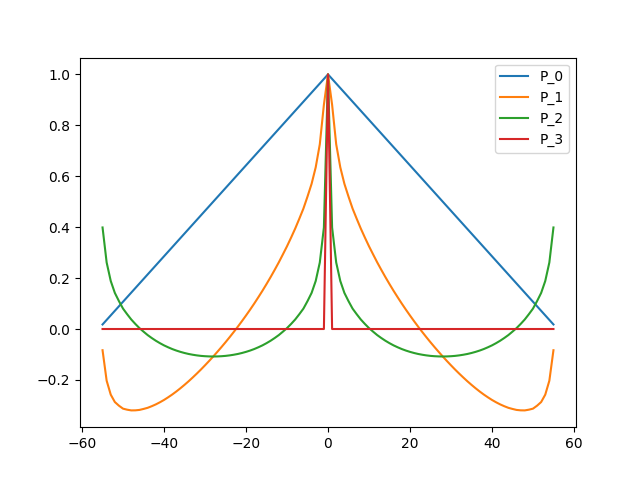
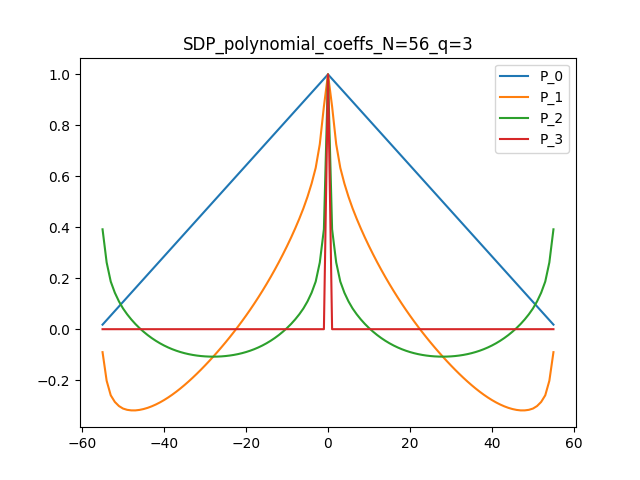
Added symmetrized solver which incorporates matrix redundancy, as well as more plots of polynomial reversals

diff --git a/sdp-solver-trans-invar-OS.py b/sdp-solver-trans-invar-OS.py
@@ -7,9 +7,8 @@ from matplotlib import pyplot as plt
 N = 6                     # Instance size
 q = 2                     # Number of queries
 epsilon = 1e-8            # Solver precision (default is not high enough)
-plot_polys = False        # Plots analogous to Figure 1 in [arxiv:0608161]
-plot_poly_coeffs = False  # Plots analogous to Figure 2 in [arxiv:0608161]
-# Note that plots will always be saved, flags determined if they are shown
+plot_polys = False        # Plots analogous to Figures 1 and 2 in [arxiv:0608161]
+save_plots = True         # Note that plots are saved only if they are not shown
 
 ############################################################
 ################ Subroutine Definitions ####################
@@ -25,6 +24,17 @@ def tr_off_diag(M, i):
         return np.sum([M[j-i, j] for j in range(N+i)])
     else:
         return np.trace(M)
+    
+    
+# Flip the polynomial coefficients of a laurent polynomial
+def flip_poly(P):
+    d = len(P)
+    mid_d = (d-1) // 2
+    new_coeffs = [0] * d
+    for i in range(mid_d):
+        new_coeffs[i] = P[mid_d - i - 1]
+        new_coeffs[mid_d + 1 + i] = P[d - i - 1]
+    return np.array(new_coeffs)
 
 # Returns a list of values of symmetric laurent polynomial, assumes length of P is odd
 def poly_val(P, xs):
@@ -34,6 +44,15 @@ def poly_val(P, xs):
     for x in xs:
         vals += [sum([P[i] * x**(i-mid_d) for i in range(d)])]
     return np.array(vals)
+
+# Determines whether two polynomials are equal on the unit circle, up to precision eps
+def poly_eq(P1, P2, eps=1e-6):
+    d = len(P1)
+    thetas = np.linspace(0, 2 * np.pi, 1000)
+    vals1 = poly_val(P1, np.exp(1j * thetas))
+    vals2 = poly_val(P2, np.exp(1j * thetas))
+    return np.all(np.abs(vals1 - vals2) < eps)
+
 
 ############################################################
 ###################### SDP Solving #########################
@@ -70,10 +89,30 @@ else:
 
 # Compute the solution polynomials
 P = [[] for _ in range(q + 1)]
+P_rev = [[] for _ in range(q + 1)]
+P_sum = [[] for _ in range(q + 1)]
+P_diff = [[] for _ in range(q + 1)]
 for i in range(1, q):
     Q[i] = Q[i].value
 for i in range(q + 1):
     P[i] = [tr_off_diag(Q[i], j) for j in range(-N+1, N)]
+    P_rev[i] = flip_poly(P[i])
+    P_sum[i] = P[i] + P_rev[i]
+    P_diff[i] = P[i] - P_rev[i]
+
+# Determine equality relations among the polynomials
+# Note that not every equality relation is checked...
+# One could check more things if desired
+for i in range(q + 1):
+    for j in range(i +1, q + 1):
+        if poly_eq(P_sum[i], P_sum[j]):
+            print("P_sum_" + str(i) + " and P_sum_" + str(j) + " are equal")
+        if poly_eq(P_diff[i], P_diff[j]):
+            print("P_diff_" + str(i) + " and P_diff_" + str(j) + " are equal")
+        if poly_eq(P_diff[i], P_sum[j]):
+            print("P_diff_" + str(i) + " and P_sum_" + str(j) + " are equal")
+        if poly_eq(P_sum[i], P_diff[j]):
+            print("P_sum_" + str(i) + " and P_diff_" + str(j) + " are equal")
 
 # Plot the solution polynomials
 thetas = np.linspace(0, 2 * np.pi, N * 6 + 100)
@@ -81,9 +120,11 @@ for i in range(q + 1):
     plt.plot(thetas, poly_val(P[i], np.exp(1j * thetas)), label='P_' + str(i))
 plt.legend()
 fig_name = "SDP_polynomial_values_N=" + str(N) + "_q=" + str(q) + ".png"
+plt.title("SDP_polynomial_values_N=" + str(N) + "_q=" + str(q))
 if plot_polys:
     plt.show()
-plt.savefig("Plots/" + fig_name)
+elif save_plots:
+    plt.savefig("Plots/" + fig_name)
 print("Saving polynomial values plot in Plots/" + fig_name)
 plt.clf()
 
@@ -93,7 +134,53 @@ for i in range(q+1):
     plt.plot(degs, P[i], label='P_' + str(i))
 plt.legend()
 fig_name = "SDP_polynomial_coeffs_N=" + str(N) + "_q=" + str(q) + ".png"
-if plot_poly_coeffs:
+plt.title("SDP_polynomial_coeffs_N=" + str(N) + "_q=" + str(q))
+if plot_polys:
     plt.show()
-plt.savefig("Plots/" + fig_name)
+elif save_plots:
+    plt.savefig("Plots/" + fig_name)
 print("Saving polynomial coefficients plot in Plots/" + fig_name)
+plt.clf()
+
+
+# Plot the solution polynomial reversals
+thetas = np.linspace(0, 2 * np.pi, N * 6 + 100)
+for i in range(q + 1):
+    plt.plot(thetas, poly_val(P_rev[i], np.exp(1j * thetas)), label='P_' + str(i))
+plt.legend()
+fig_name = "SDP_reversed_polynomial_values_N=" + str(N) + "_q=" + str(q) + ".png"
+plt.title("SDP_reversed_polynomial_values_N=" + str(N) + "_q=" + str(q))
+if plot_polys:
+    plt.show()
+elif save_plots:
+    plt.savefig("Plots/" + fig_name)
+print("Saving polynomial values plot in Plots/" + fig_name)
+plt.clf()
+
+# Plot the sum of solution polynomial and their reversals
+thetas = np.linspace(0, 2 * np.pi, N * 6 + 100)
+for i in range(q + 1):
+    plt.plot(thetas, poly_val(P[i] + P_rev[i], np.exp(1j * thetas)), label='P_' + str(i))
+plt.legend()
+fig_name = "SDP_sum_polynomial_values_N=" + str(N) + "_q=" + str(q) + ".png"
+plt.title("SDP_sum_polynomial_values_N=" + str(N) + "_q=" + str(q))
+if plot_polys:
+    plt.show()
+elif save_plots:
+    plt.savefig("Plots/" + fig_name)
+print("Saving polynomial values plot in Plots/" + fig_name)
+plt.clf()
+
+# Plot the difference of solution polynomial and their reversals
+thetas = np.linspace(0, 2 * np.pi, N * 6 + 100)
+for i in range(q + 1):
+    plt.plot(thetas, poly_val(P[i] - P_rev[i], np.exp(1j * thetas)), label='P_' + str(i))
+plt.legend()
+fig_name = "SDP_diff_polynomial_values_N=" + str(N) + "_q=" + str(q) + ".png"
+plt.title("SDP_diff_polynomial_values_N=" + str(N) + "_q=" + str(q))
+if plot_polys:
+    plt.show()
+elif save_plots:
+    plt.savefig("Plots/" + fig_name)
+print("Saving polynomial values plot in Plots/" + fig_name)
+plt.clf()
